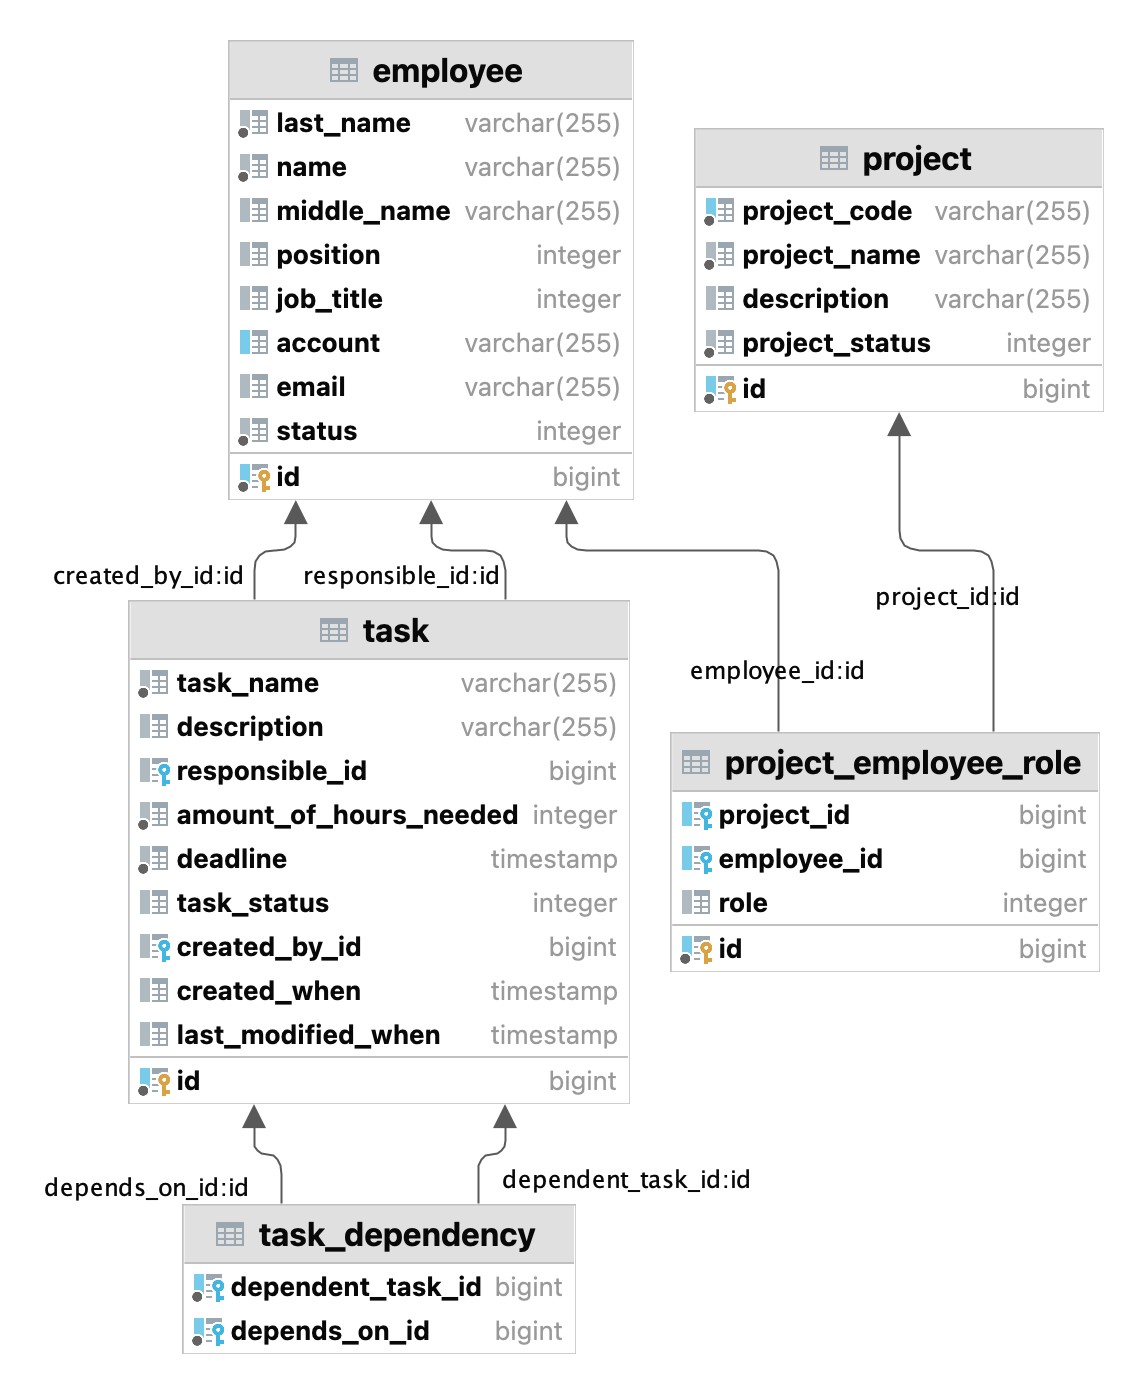
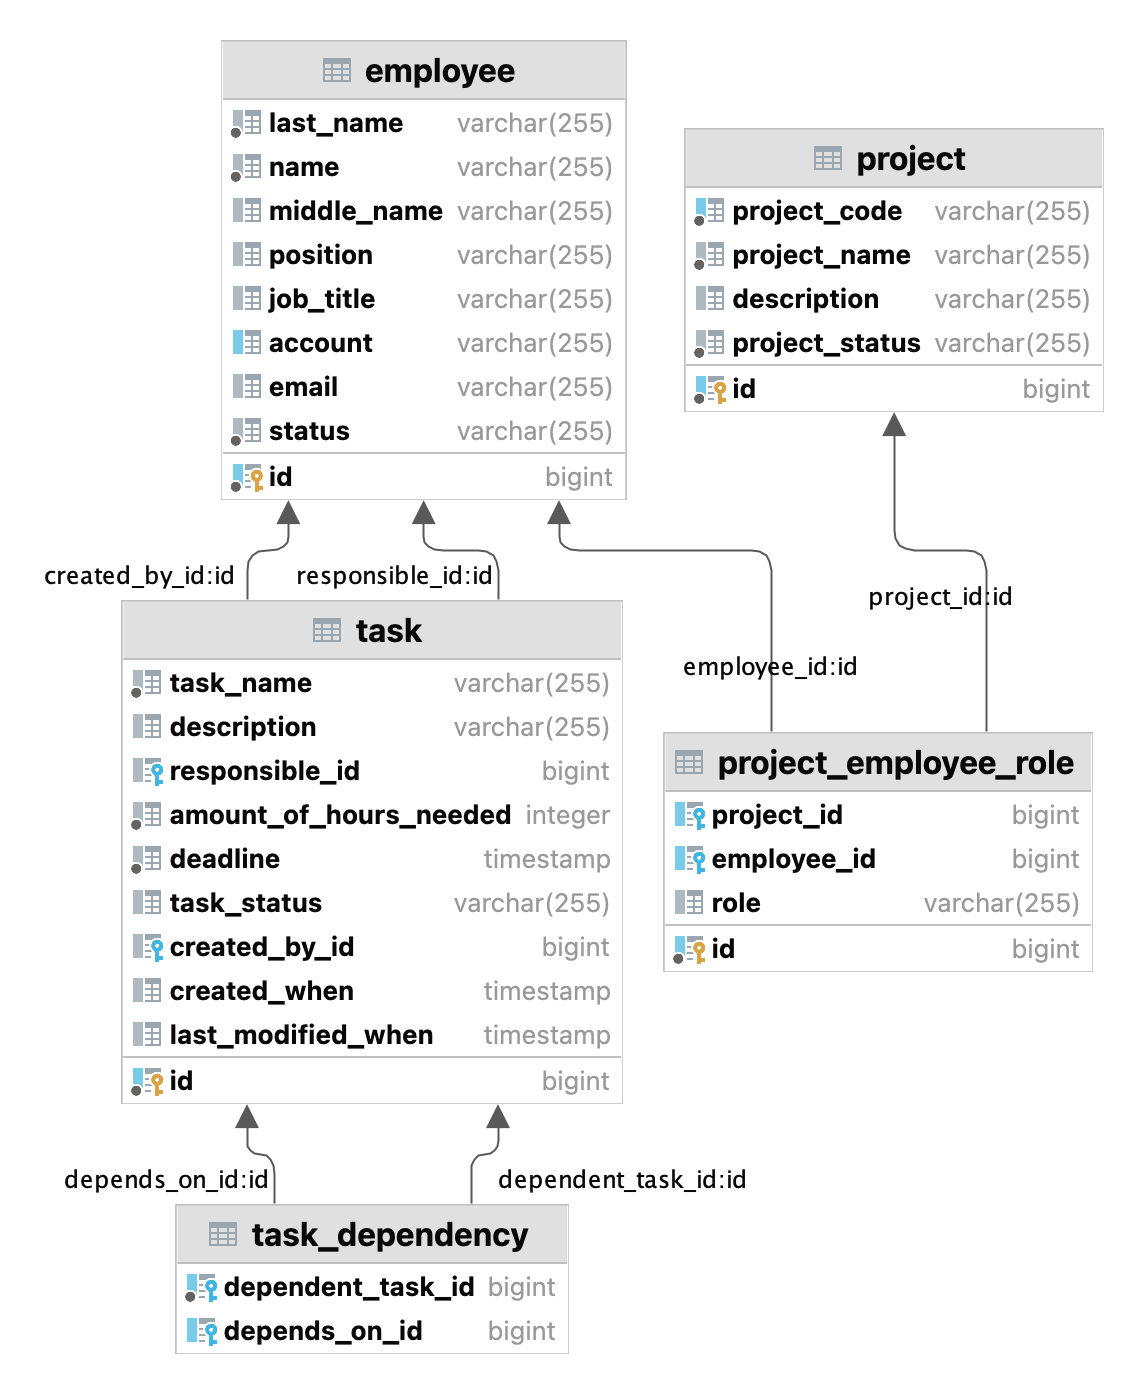
Homework 4 fix

diff --git a/dao/src/main/java/ru/digdes/school/dao/jdbcimpl/EmployeeRepoFacadeJdbcImpl.java b/dao/src/main/java/ru/digdes/school/dao/jdbcimpl/EmployeeRepoFacadeJdbcImpl.java
@@ -150,11 +150,11 @@ public class EmployeeRepoFacadeJdbcImpl implements RepositoryFacade<Employee> {
                     .lastName(resultSet.getString(2))
                     .name(resultSet.getString(3))
                     .middleName(resultSet.getString(4))
-                    .position(Position.values()[resultSet.getInt(5)])
-                    .jobTitle(JobTitle.values()[resultSet.getInt(6)])
+                    .position(resultSet.getString(5) == null ? null : Position.valueOf(resultSet.getString(5)))
+                    .jobTitle(resultSet.getString(6) == null ? null : JobTitle.valueOf(resultSet.getString(6)))
                     .account(resultSet.getString(7))
                     .email(resultSet.getString(8))
-                    .status(EmployeeStatus.values()[resultSet.getInt(9)])
+                    .status(resultSet.getString(9) == null ? null : EmployeeStatus.valueOf(resultSet.getString(9)))
                     .build();
         } catch (SQLException e) {
             throw new RuntimeException(e);
@@ -166,16 +166,11 @@ public class EmployeeRepoFacadeJdbcImpl implements RepositoryFacade<Employee> {
             statement.setString(1, object.getLastName());
             statement.setString(2, object.getName());
             statement.setString(3, object.getMiddleName());
-            /* пока неясна ситуация с возможным null при передаче энамов.
-            JDBC все-равно будет возвращать числовое значение (0) если значение поля null.
-            нужно ли вводить отдельное значение в энамах для подобных случаев?
-            поскольку далее будет работа с JPA, не учитываю этот случай, но если нужно будет,
-            учту */
-            statement.setInt(4, object.getPosition() == null ? 0 : object.getPosition().ordinal());
-            statement.setInt(5, object.getJobTitle() == null ? 0 : object.getJobTitle().ordinal());
+            statement.setString(4, object.getPosition() == null ? null : object.getPosition().name());
+            statement.setString(5, object.getJobTitle() == null ? null : object.getJobTitle().name());
             statement.setString(6, object.getAccount());
             statement.setString(7, object.getEmail());
-            statement.setInt(8, object.getStatus() == null ? 0 : object.getStatus().ordinal());
+            statement.setString(8, EmployeeStatus.ACTIVE.name());
         } catch (SQLException e) {
             throw new RuntimeException(e);
         }

diff --git a/app/src/main/java/ru/digdes/school/app/Launch.java b/app/src/main/java/ru/digdes/school/app/Launch.java
@@ -7,6 +7,7 @@ public class Launch {
     public static void main(String[] args) {
         EmployeeController employeeController = new EmployeeController();
 
+
         EmployeeDto employeeDto = EmployeeDto.builder()
                 .name("John")
                 .lastName("Travolta")
@@ -24,22 +25,20 @@ public class Launch {
                 .lastName("Willis")
                 .build();
         employeeController.create(employeeDto3);
-
+//
         EmployeeDto employeeDto4 = EmployeeDto.builder()
                 .id(3L)
-                .name("Брюс")
                 .position("SENIOR")
+                .jobTitle("SOFTWARE_DEVELOPER")
                 .build();
         employeeController.update(employeeDto4);
 
         employeeController.getAll();
 
-        employeeController.getOne(10L);
-
         employeeController.delete(4L);
 
-        employeeController.searchEmployeesAndTasks("Nullam varius");
-        employeeController.searchEmployeesAndTasks("Брюс");
+        employeeController.searchEmployeesAndTasks("Duis");
+        employeeController.searchEmployeesAndTasks("Br");
 
     }
 }
